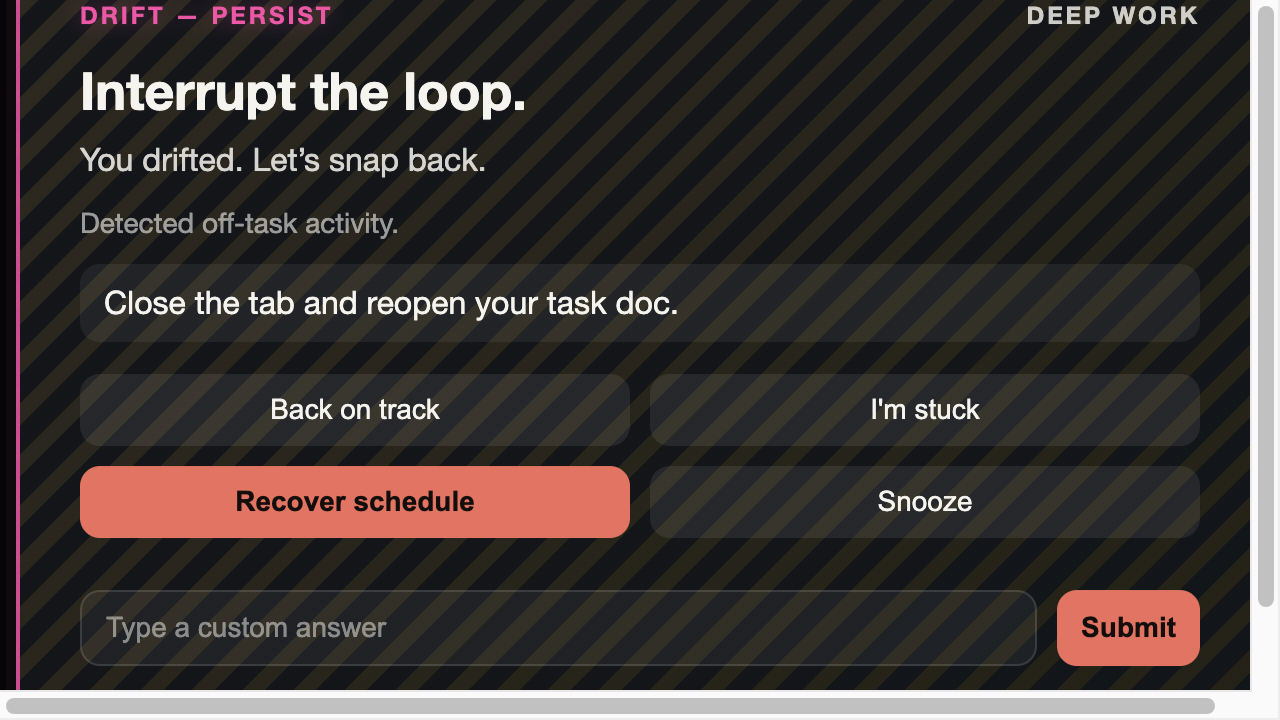
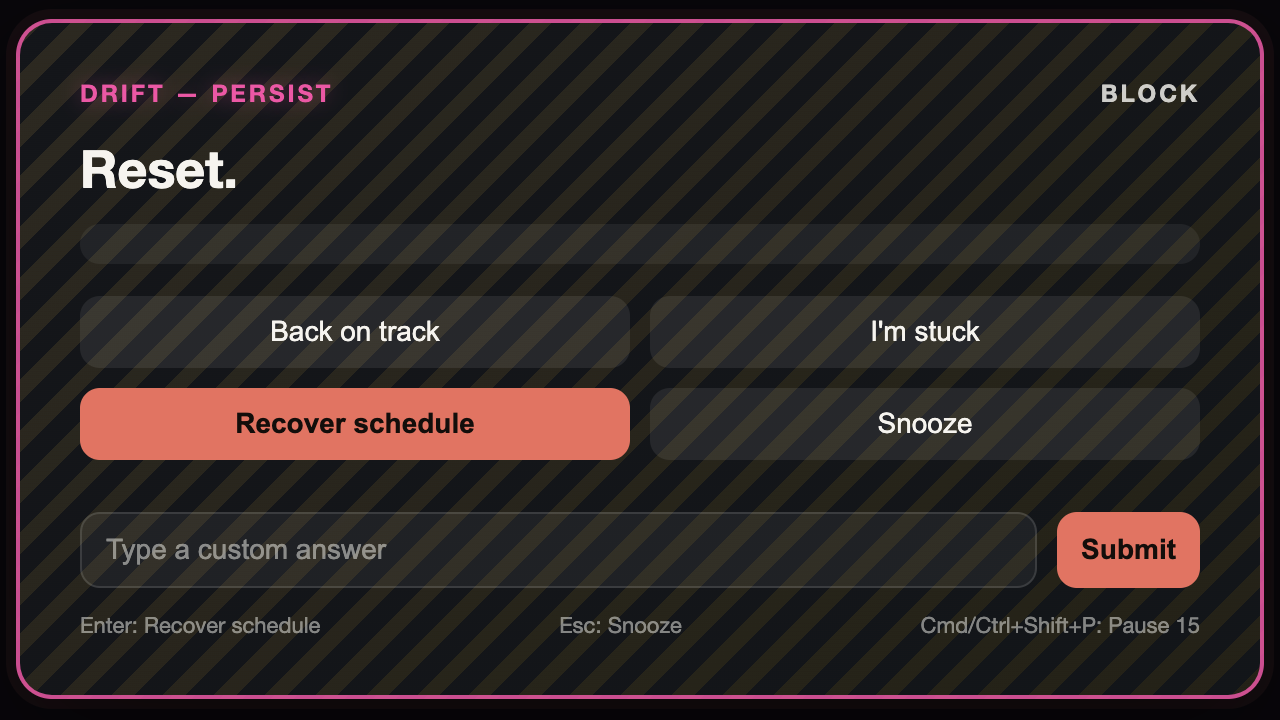
overlay: make DRIFT_PERSIST Enter trigger recovery

diff --git a/overlay/overlay.js b/overlay/overlay.js
@@ -11,6 +11,7 @@ const choiceButtons = document.getElementById("choiceButtons");
 const alignInput = document.getElementById("alignInput");
 const alignText = document.getElementById("alignText");
 const alignSubmit = document.getElementById("alignSubmit");
+
 const enterHint = document.getElementById("enterHint");
 
 const backBtn = document.getElementById("backBtn");
@@ -39,6 +40,20 @@ function updateEventLabel(payload) {
   const eventType = String(raw).toUpperCase();
   overlay.dataset.eventType = eventType;
 
+  // UX: DRIFT_PERSIST should push a more actionable recovery path and reduce accidental "I'm fine" exits.
+  if (enterHint) {
+    enterHint.textContent = eventType === "DRIFT_PERSIST" ? "Enter: Recover schedule" : "Enter: Back on track";
+  }
+
+  // Swap primary emphasis on DRIFT_PERSIST (visual + motor pattern-break).
+  if (eventType === "DRIFT_PERSIST") {
+    backBtn.classList.remove("primary");
+    recoverBtn.classList.add("primary");
+  } else {
+    recoverBtn.classList.remove("primary");
+    backBtn.classList.add("primary");
+  }
+
   if (!eventType) {
     setText(eventLabel, "DRIFT");
     return;
@@ -54,25 +69,7 @@ function updateEventLabel(payload) {
   setText(eventLabel, eventType.replaceAll("_", " "));
 }
 
-function updateEnterHint() {
-  const action = window.overlayUtils?.getGlobalEnterAction?.(overlay.dataset.eventType) || "back_on_track";
-  if (action === "recover") {
-    setText(enterHint, "Enter: Recover schedule");
-  } else {
-    setText(enterHint, "Enter: Back on track");
-  }
-}
-
-function updatePrimaryActionStyling() {
-  const action = window.overlayUtils?.getGlobalEnterAction?.(overlay.dataset.eventType) || "back_on_track";
-  if (action === "recover") {
-    backBtn.classList.remove("primary");
-    recoverBtn.classList.add("primary");
-  } else {
-    recoverBtn.classList.remove("primary");
-    backBtn.classList.add("primary");
-  }
-}
+// (unused helper functions removed)
 
 function resetSnooze() {
   snooze.classList.add("hidden");
